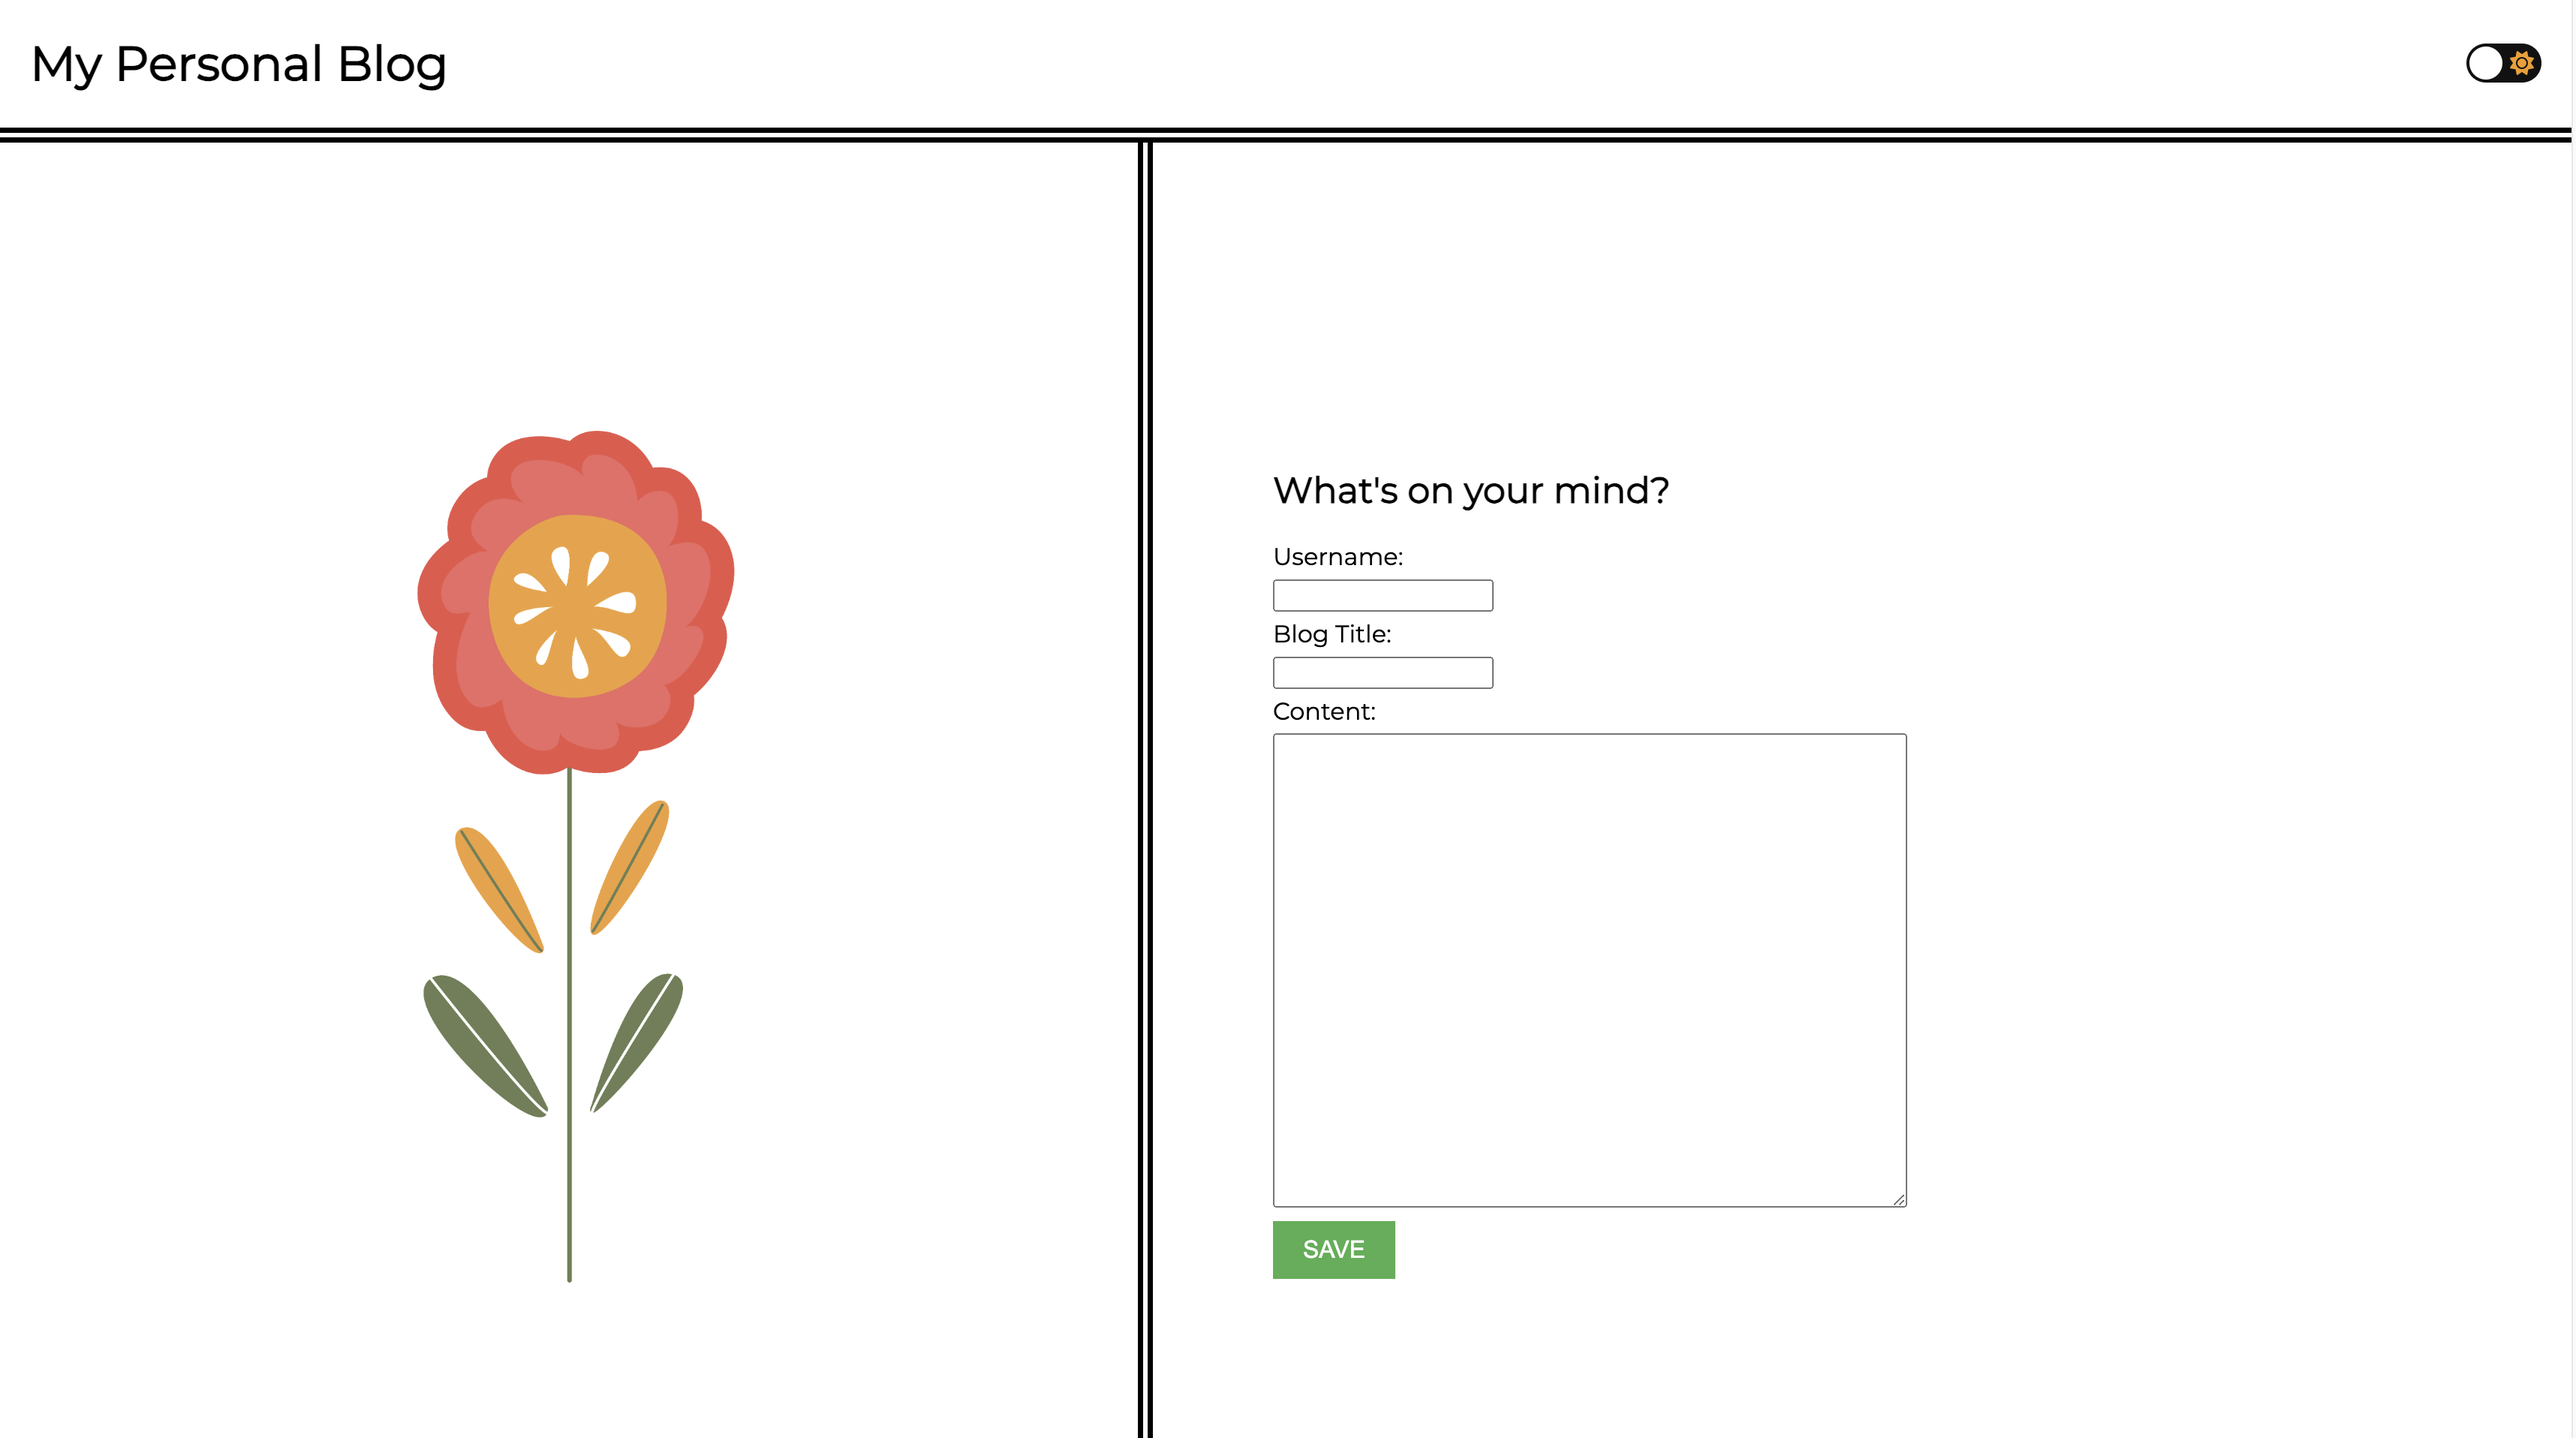
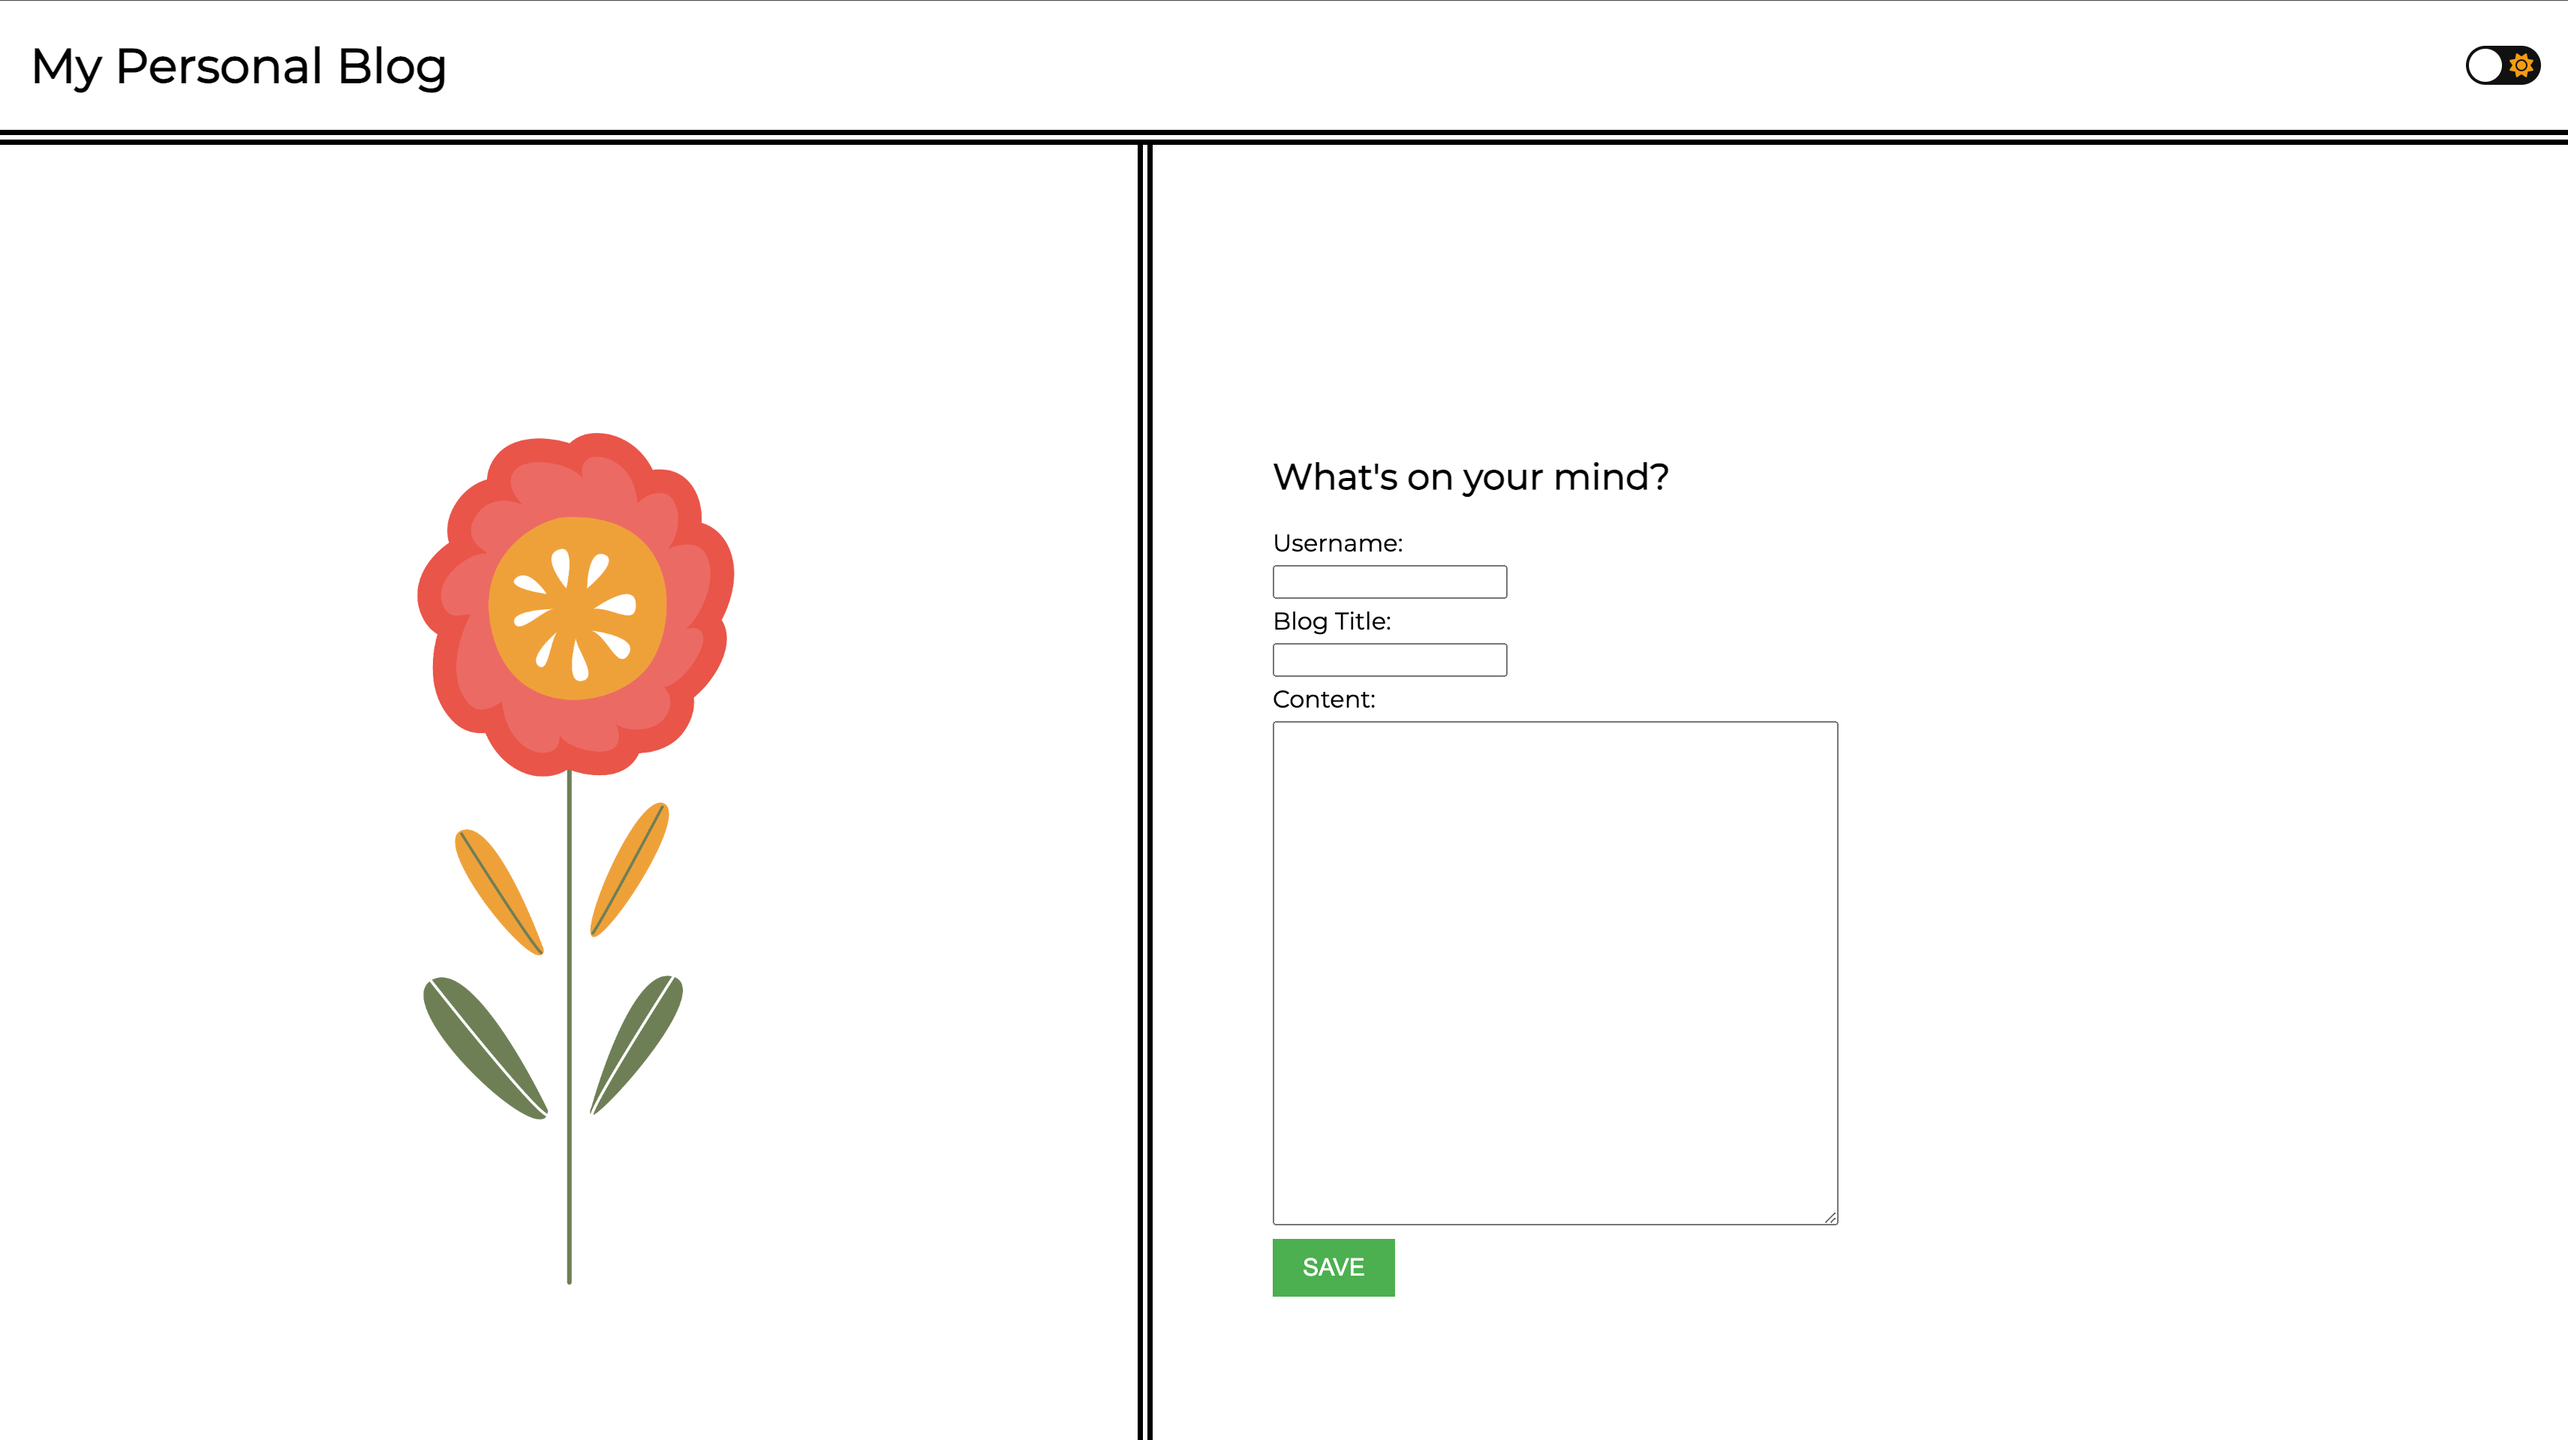
modified css to change form input font-family and add line breaks after paragraph.

diff --git a/assets/js/form.js b/assets/js/form.js
@@ -33,7 +33,7 @@ saveButton.addEventListener('click', function (event) {
 // Clear the form when the page loads
 window.addEventListener('load', () => {
   userName.value = '';
-  title.value = '';
+  title.value = ''
   content.value = '';
   document.querySelector('.message').textContent = '';
 });

diff --git a/assets/css/blog.css b/assets/css/blog.css
@@ -21,12 +21,13 @@
   padding: 20px;
 }
 
-.card {
-  border: 2px solid #000;
-  border-radius: 5px;
-  padding: 20px;
-  margin-bottom: 20px;
-  box-shadow: 0 2px 5px rgba(0, 0, 0, 0.1);
+p {
+  white-space: pre-wrap;
+}
+
+p:nth-child(odd) {
+color:#A8B545;
+font-style: italic;
 }
 
 .card h2 {

diff --git a/assets/css/form.css b/assets/css/form.css
@@ -10,14 +10,19 @@ h2 {
   text-align: left;
 }
 
+#content {
+  white-space: pre-wrap;
+
+}
+
 p {
   font-size: 20px;
 }
 
-.form-textbox,
-.form-textarea {
-  font-family: 'Montserrat', sans-serif;
-}
+
+input, text, textarea, select { font-family:inherit; }
+
+
 
 form {
   width: 100%;
